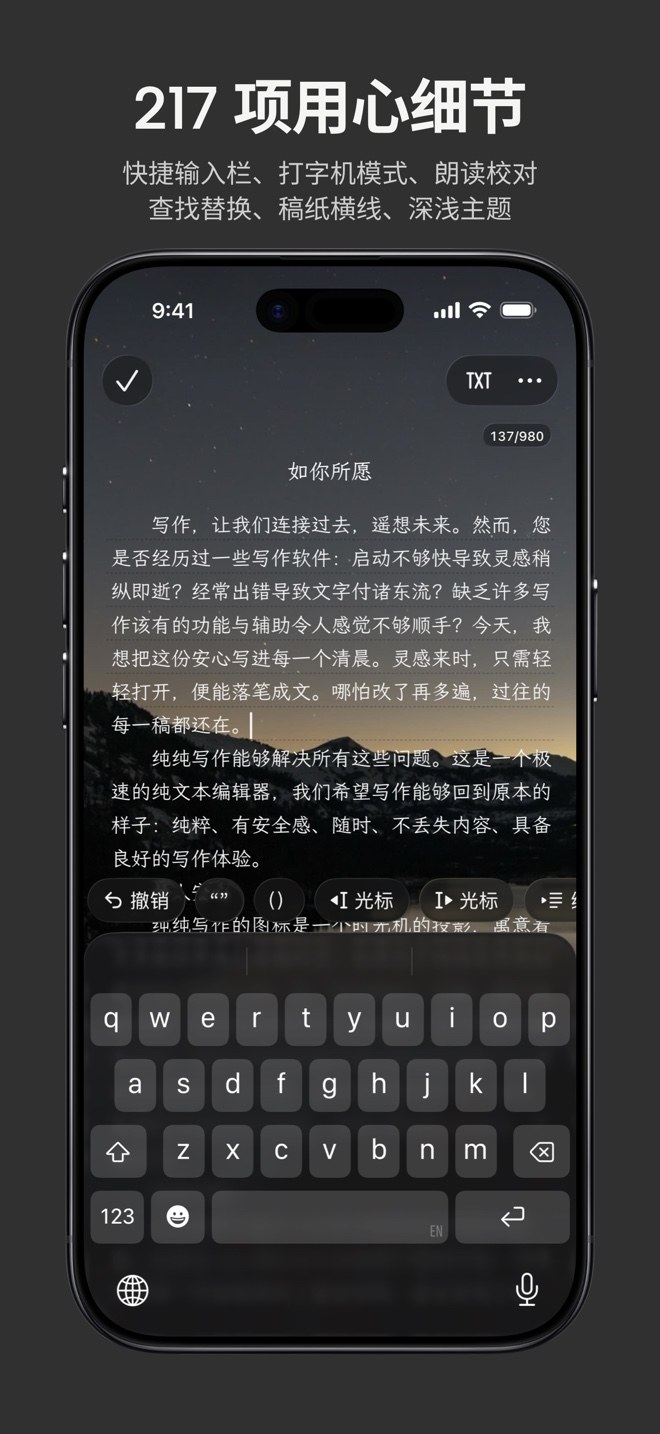
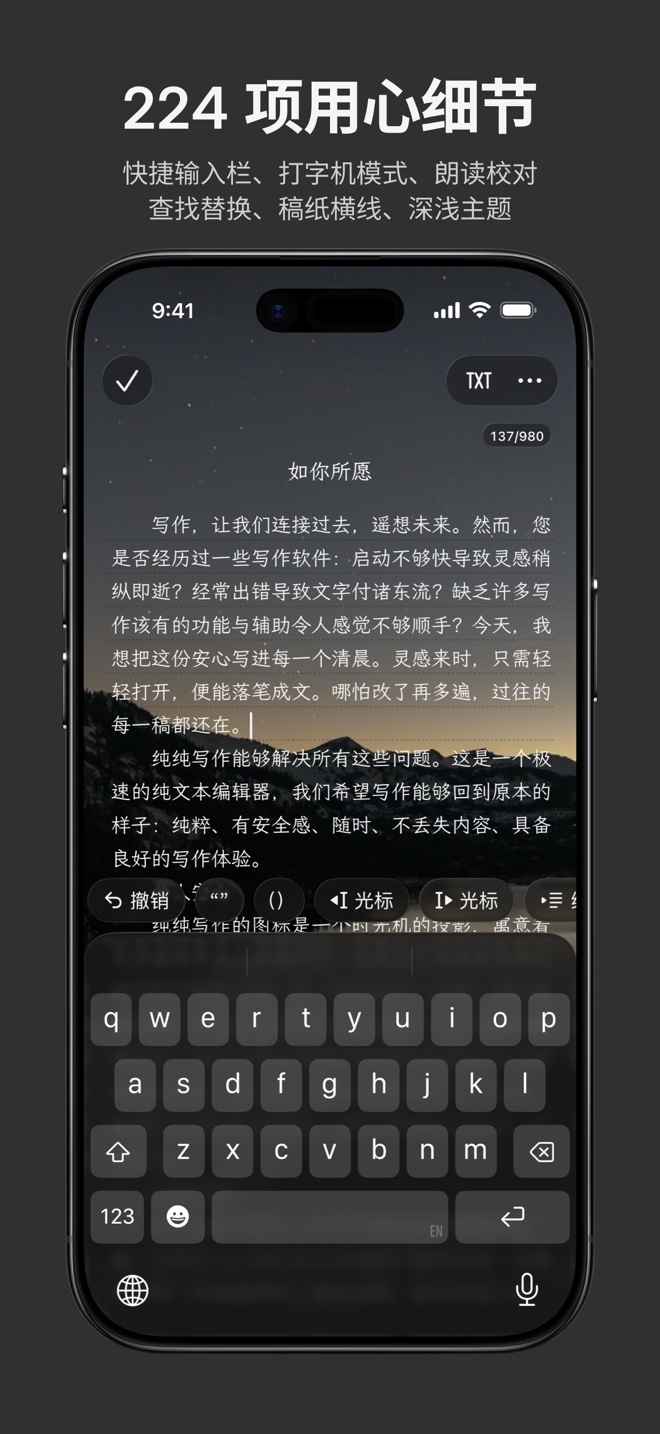
iOS 版的功能数改为 224：首页与 iOS 页的文字、截图说明与第 6 张截图
Claude-Session: https://claude.ai/code/session_01MgKT4cV2h3fFtSPvonjgth

Changed region(s): [[0.1818, 0.0307, 0.8182, 0.0921]]

diff --git a/content/ios/index.ja.html b/content/ios/index.ja.html
@@ -38,11 +38,11 @@ appName: 純純執筆 iOS 版
   <li>{{< img src="img/ios/ja-02-history.jpg" alt="書いた文字を守る：履歴の一覧、文章の以前の版を取り戻せる" width="216" loading="eager" >}}</li>
   <li>{{< img src="img/ios/ja-04-cloud.jpg" alt="デバイス間で同期：Dropbox・OneDrive と連携" width="216" loading="eager" >}}</li>
   <li>{{< img src="img/ios/ja-05-markdown.jpg" alt="Markdown と書き出し：書きながら見える Markdown の書式" width="216" >}}</li>
-  <li>{{< img src="img/ios/ja-06-keyboard.jpg" alt="217 のこだわり：キーボードの上のショートカットバー" width="216" >}}</li>
+  <li>{{< img src="img/ios/ja-06-keyboard.jpg" alt="224 のこだわり：キーボードの上のショートカットバー" width="216" >}}</li>
 </ul>
 
 <h2>iPhone と iPad のために作り直しました</h2>
-<p>指先でキーボードの上げ下げをなめらかに操れます。タイプライターモードでは、いま書いている段落だけがはっきりと見え、ほかの段落は淡く沈みます。文章を開き直すと、前回の位置からそのまま続けられます。iOS 版には磨き上げた 217 の機能とこだわりが詰まっていて、そのうち次の機能は現在 iOS 版だけで利用できます。</p>
+<p>指先でキーボードの上げ下げをなめらかに操れます。タイプライターモードでは、いま書いている段落だけがはっきりと見え、ほかの段落は淡く沈みます。文章を開き直すと、前回の位置からそのまま続けられます。iOS 版には磨き上げた 224 の機能とこだわりが詰まっていて、そのうち次の機能は現在 iOS 版だけで利用できます。</p>
 <ul>
   <li>没入モード：入力を始めるとトップバーを自動で収める</li>
   <li>タイトルと本文をまとめて取り消し。3 本指ジェスチャやシェイクにも対応</li>

diff --git a/content/_index.ja.html b/content/_index.ja.html
@@ -52,7 +52,7 @@ jsonld: home
 
 <section class="prose">
   <h2 id="ios-ja">iOS 版</h2>
-  <p>純純執筆 iOS 版は、エディタについて十年かけて積み上げてきた理解をもとに、iOS 本来の設計と操作に沿って一から作り直しました。<strong>デザインは Liquid Glass に全面対応</strong>しています。タイプライターモードでは、いま書いている段落だけがはっきりと見え、ほかの段落は淡く沈みます。文章を開き直すと、前回の位置からそのまま続けられます。iOS 版には、磨き上げた 217 の機能とこだわりが詰まっています。</p>
+  <p>純純執筆 iOS 版は、エディタについて十年かけて積み上げてきた理解をもとに、iOS 本来の設計と操作に沿って一から作り直しました。<strong>デザインは Liquid Glass に全面対応</strong>しています。タイプライターモードでは、いま書いている段落だけがはっきりと見え、ほかの段落は淡く沈みます。文章を開き直すと、前回の位置からそのまま続けられます。iOS 版には、磨き上げた 224 の機能とこだわりが詰まっています。</p>
   <ul>
     <li>iOS 26 または iPadOS 26 以降の iPhone と iPad に対応しています。</li>
     <li>ダウンロード後 7 日間、すべての機能を無料でお試しいただけます。体験期間中は登録不要で、自動で課金されることもありません。体験期間の終了後は、月額プラン、年額プラン、または買い切りの永久メンバーシップを選べます。無料版と上位版の区別はなく、メンバーシップですべての機能が使えます。</li>

diff --git a/content/ios/index.en.html b/content/ios/index.en.html
@@ -37,11 +37,11 @@ appName: Pure Writer for iOS
   <li>{{< img src="img/ios/en-02-history.jpg" alt="Keep Every Word: the History list, for getting back earlier versions of a document" width="216" loading="eager" >}}</li>
   <li>{{< img src="img/ios/en-04-cloud.jpg" alt="Sync Across Devices: connect Dropbox or OneDrive" width="216" loading="eager" >}}</li>
   <li>{{< img src="img/ios/en-05-markdown.jpg" alt="Markdown & Export: Markdown styling shown as you write" width="216" >}}</li>
-  <li>{{< img src="img/ios/en-06-keyboard.jpg" alt="217 Crafted Details: the shortcut bar above the keyboard" width="216" >}}</li>
+  <li>{{< img src="img/ios/en-06-keyboard.jpg" alt="224 Crafted Details: the shortcut bar above the keyboard" width="216" >}}</li>
 </ul>
 
 <h2>Rebuilt for iPhone and iPad</h2>
-<p>Slide the keyboard up and down with your finger. Typewriter Mode keeps the paragraph you are writing in focus while the rest softly fades, and reopening a document brings you right back to where you left off. The iOS version includes 217 carefully crafted features and details, and some of them are currently available only on iOS:</p>
+<p>Slide the keyboard up and down with your finger. Typewriter Mode keeps the paragraph you are writing in focus while the rest softly fades, and reopening a document brings you right back to where you left off. The iOS version includes 224 carefully crafted features and details, and some of them are currently available only on iOS:</p>
 <ul>
   <li>Immersive Mode tucks the top bar away as you start typing</li>
   <li>One undo history for title and body, with three-finger gestures and shake to undo</li>

diff --git a/content/ios/index.zh-hans.html b/content/ios/index.zh-hans.html
@@ -41,11 +41,11 @@ company: Drakeet Co., Ltd.
   <li>{{< img src="img/ios/zh-hans-02-history.jpg" alt="追求绝不丢失：历史记录列表，可以找回文章的旧版本" width="216" loading="eager" >}}</li>
   <li>{{< img src="img/ios/zh-hans-04-cloud.jpg" alt="多设备同步：连接 Dropbox、OneDrive 或阿里云盘" width="216" loading="eager" >}}</li>
   <li>{{< img src="img/ios/zh-hans-05-markdown.jpg" alt="Markdown 与导出：边写边看的 Markdown 样式" width="216" >}}</li>
-  <li>{{< img src="img/ios/zh-hans-06-keyboard.jpg" alt="217 项用心细节：键盘上方的快捷输入栏" width="216" >}}</li>
+  <li>{{< img src="img/ios/zh-hans-06-keyboard.jpg" alt="224 项用心细节：键盘上方的快捷输入栏" width="216" >}}</li>
 </ul>
 
 <h2>为 iPhone 与 iPad 重新打造</h2>
-<p>手指可以顺滑地控制软键盘的起落；打字机模式聚焦当前段落，其余段落柔和淡去；重新打开文章，回到上次停留的位置，仿佛从未离开。iOS 版共有 217 项用心打磨的功能与细节，其中一些目前只有 iOS 版提供：</p>
+<p>手指可以顺滑地控制软键盘的起落；打字机模式聚焦当前段落，其余段落柔和淡去；重新打开文章，回到上次停留的位置，仿佛从未离开。iOS 版共有 224 项用心打磨的功能与细节，其中一些目前只有 iOS 版提供：</p>
 <ul>
   <li>沉浸模式：开始输入时自动收起顶栏</li>
   <li>标题与正文统一撤销，支持三指手势与摇一摇</li>

diff --git a/content/ios/index.zh-hk.html b/content/ios/index.zh-hk.html
@@ -37,11 +37,11 @@ appName: 純純寫作 iOS 版
   <li>{{< img src="img/ios/zh-hant-02-history.jpg" alt="追求絕不遺失：歷史記錄列表，可以找回文章的舊版本" width="216" loading="eager" >}}</li>
   <li>{{< img src="img/ios/zh-hant-04-cloud.jpg" alt="多裝置同步：連接 Dropbox 或 OneDrive" width="216" loading="eager" >}}</li>
   <li>{{< img src="img/ios/zh-hant-05-markdown.jpg" alt="Markdown 與匯出：邊寫邊看的 Markdown 樣式" width="216" >}}</li>
-  <li>{{< img src="img/ios/zh-hant-06-keyboard.jpg" alt="217 項用心細節：軟鍵盤上方的快捷輸入欄" width="216" >}}</li>
+  <li>{{< img src="img/ios/zh-hant-06-keyboard.jpg" alt="224 項用心細節：軟鍵盤上方的快捷輸入欄" width="216" >}}</li>
 </ul>
 
 <h2>為 iPhone 與 iPad 重新打造</h2>
-<p>手指可以順滑地控制軟鍵盤的起落；打字機模式聚焦當前段落，其餘段落柔和淡去；重新開啟文章，回到上次停留的位置，彷彿從未離開。iOS 版共有 217 項用心打磨的功能與細節，其中一些目前僅 iOS 版提供：</p>
+<p>手指可以順滑地控制軟鍵盤的起落；打字機模式聚焦當前段落，其餘段落柔和淡去；重新開啟文章，回到上次停留的位置，彷彿從未離開。iOS 版共有 224 項用心打磨的功能與細節，其中一些目前僅 iOS 版提供：</p>
 <ul>
   <li>沉浸模式：開始輸入時自動收起頂部列</li>
   <li>標題與內文統一復原，支援三指手勢與搖一搖</li>

diff --git a/content/ios/index.zh-hant.html b/content/ios/index.zh-hant.html
@@ -36,11 +36,11 @@ appName: 純純寫作 iOS 版
   <li>{{< img src="img/ios/zh-hant-02-history.jpg" alt="追求絕不遺失：歷史記錄列表，可以找回文章的舊版本" width="216" loading="eager" >}}</li>
   <li>{{< img src="img/ios/zh-hant-04-cloud.jpg" alt="多裝置同步：連接 Dropbox 或 OneDrive" width="216" loading="eager" >}}</li>
   <li>{{< img src="img/ios/zh-hant-05-markdown.jpg" alt="Markdown 與匯出：邊寫邊看的 Markdown 樣式" width="216" >}}</li>
-  <li>{{< img src="img/ios/zh-hant-06-keyboard.jpg" alt="217 項用心細節：鍵盤上方的快捷輸入欄" width="216" >}}</li>
+  <li>{{< img src="img/ios/zh-hant-06-keyboard.jpg" alt="224 項用心細節：鍵盤上方的快捷輸入欄" width="216" >}}</li>
 </ul>
 
 <h2>為 iPhone 與 iPad 重新打造</h2>
-<p>手指可以順滑地控制鍵盤的起落；打字機模式聚焦目前段落，其餘段落柔和淡去；重新開啟文章，回到上次停留的位置，彷彿從未離開。iOS 版共有 217 項用心打磨的功能與細節，其中一些目前僅 iOS 版提供：</p>
+<p>手指可以順滑地控制鍵盤的起落；打字機模式聚焦目前段落，其餘段落柔和淡去；重新開啟文章，回到上次停留的位置，彷彿從未離開。iOS 版共有 224 項用心打磨的功能與細節，其中一些目前僅 iOS 版提供：</p>
 <ul>
   <li>沉浸模式：開始輸入時自動收起頂部列</li>
   <li>標題與內文統一復原，支援三指手勢與搖一搖</li>

diff --git a/content/_index.en.html b/content/_index.en.html
@@ -52,7 +52,7 @@ jsonld: home
 
 <section class="prose">
   <h2 id="ios-en">Pure Writer for iOS</h2>
-  <p>Pure Writer for iOS draws on ten years of building editors. It is rebuilt from the ground up around native iOS design and interactions, with <strong>Liquid Glass throughout</strong>. Typewriter Mode keeps the paragraph you are writing in focus while the rest softly fades, and reopening a document brings you right back to where you left off. The iOS version includes 217 carefully crafted features and details.</p>
+  <p>Pure Writer for iOS draws on ten years of building editors. It is rebuilt from the ground up around native iOS design and interactions, with <strong>Liquid Glass throughout</strong>. Typewriter Mode keeps the paragraph you are writing in focus while the rest softly fades, and reopening a document brings you right back to where you left off. The iOS version includes 224 carefully crafted features and details.</p>
   <ul>
     <li>For iPhone and iPad with iOS 26 or iPadOS 26 or later.</li>
     <li>Try every feature free for 7 days. No subscription is needed during the trial, and you will not be charged automatically. Afterwards, choose a monthly subscription, a yearly subscription, or a lifetime membership. There are no separate free and premium tiers: membership unlocks everything.</li>

diff --git a/content/_index.zh-hant.html b/content/_index.zh-hant.html
@@ -54,7 +54,7 @@ jsonld: home
 
 <section class="prose">
   <h2 id="ios-zh-hant">iOS 版</h2>
-  <p>　　純純寫作 iOS 版凝聚了我們十年來對編輯器的理解，依 iOS 原生的設計與互動習慣重新打造，<strong>全面採用液態玻璃（Liquid Glass）設計</strong>。打字機模式聚焦目前段落，其餘段落柔和淡去；重新開啟文章，回到上次停留的位置，彷彿從未離開。iOS 版共有 217 項用心打磨的功能與細節。</p>
+  <p>　　純純寫作 iOS 版凝聚了我們十年來對編輯器的理解，依 iOS 原生的設計與互動習慣重新打造，<strong>全面採用液態玻璃（Liquid Glass）設計</strong>。打字機模式聚焦目前段落，其餘段落柔和淡去；重新開啟文章，回到上次停留的位置，彷彿從未離開。iOS 版共有 224 項用心打磨的功能與細節。</p>
   <ul>
     <li>適用於 iPhone 與 iPad，需要 iOS 26 或 iPadOS 26 以上版本。</li>
     <li>下載後可以免費試用 7 天，期間所有功能都可使用，無需訂閱，也不會自動扣款。試用結束後，可以選擇月訂閱、年訂閱或永久會員。iOS 版不區分免費版與進階版，會員即全部功能。</li>

diff --git a/content/_index.zh-hk.html b/content/_index.zh-hk.html
@@ -54,7 +54,7 @@ jsonld: home
 
 <section class="prose">
   <h2 id="ios-zh-hk">iOS 版</h2>
-  <p>　　純純寫作 iOS 版凝聚了我們十年來對編輯器的理解，按 iOS 原生的設計與互動習慣重新打造，<strong>全面採用液態玻璃（Liquid Glass）設計</strong>。打字機模式聚焦當前段落，其餘段落柔和淡去；重新開啟文章，回到上次停留的位置，彷彿從未離開。iOS 版共有 217 項用心打磨的功能與細節。</p>
+  <p>　　純純寫作 iOS 版凝聚了我們十年來對編輯器的理解，按 iOS 原生的設計與互動習慣重新打造，<strong>全面採用液態玻璃（Liquid Glass）設計</strong>。打字機模式聚焦當前段落，其餘段落柔和淡去；重新開啟文章，回到上次停留的位置，彷彿從未離開。iOS 版共有 224 項用心打磨的功能與細節。</p>
   <ul>
     <li>適用於 iPhone 與 iPad，需要 iOS 26 或 iPadOS 26 以上版本。</li>
     <li>下載後可以免費試用 7 天，期間所有功能都可使用，無需訂閱，也不會自動扣款。試用結束後，可以選擇月訂閱、年訂閱或永久會員。iOS 版不區分免費版與高級版，會員即全部功能。</li>

diff --git a/content/_index.zh-hans.html b/content/_index.zh-hans.html
@@ -51,7 +51,7 @@ jsonld: home
 
 <section class="prose">
   <h2 id="ios">iOS 版</h2>
-  <p>　　纯纯写作 iOS 版凝聚了我们十年来对编辑器的理解，按 iOS 原生的设计与交互习惯重新打造，<strong>全面采用液态玻璃（Liquid Glass）设计</strong>。打字机模式聚焦当前段落，其余段落柔和淡去；重新打开文章，回到上次停留的位置，仿佛从未离开。iOS 版共有 217 项用心打磨的功能与细节。</p>
+  <p>　　纯纯写作 iOS 版凝聚了我们十年来对编辑器的理解，按 iOS 原生的设计与交互习惯重新打造，<strong>全面采用液态玻璃（Liquid Glass）设计</strong>。打字机模式聚焦当前段落，其余段落柔和淡去；重新打开文章，回到上次停留的位置，仿佛从未离开。iOS 版共有 224 项用心打磨的功能与细节。</p>
   <ul>
     <li>适用于 iPhone 与 iPad，需要 iOS 26 或 iPadOS 26 及以上版本。</li>
     <li>下载后可以免费试用 7 天，期间全部功能可用，无需订阅，也不会自动扣费。试用结束后，可以选择月度订阅、年度订阅或永久会员。iOS 版不区分免费版与高级版，会员即全部功能。</li>
